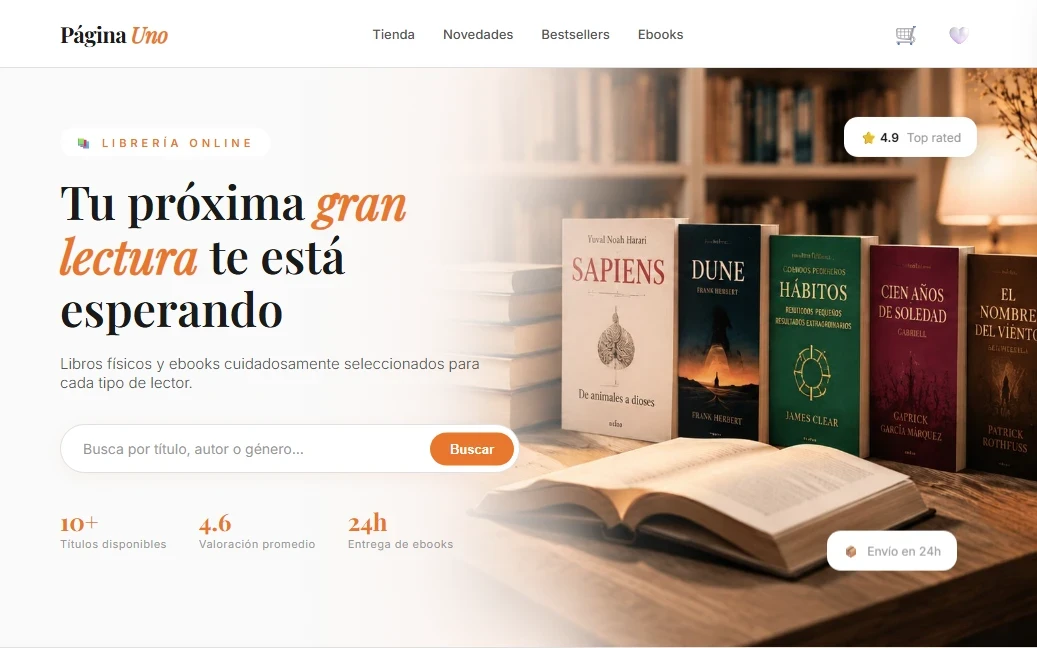
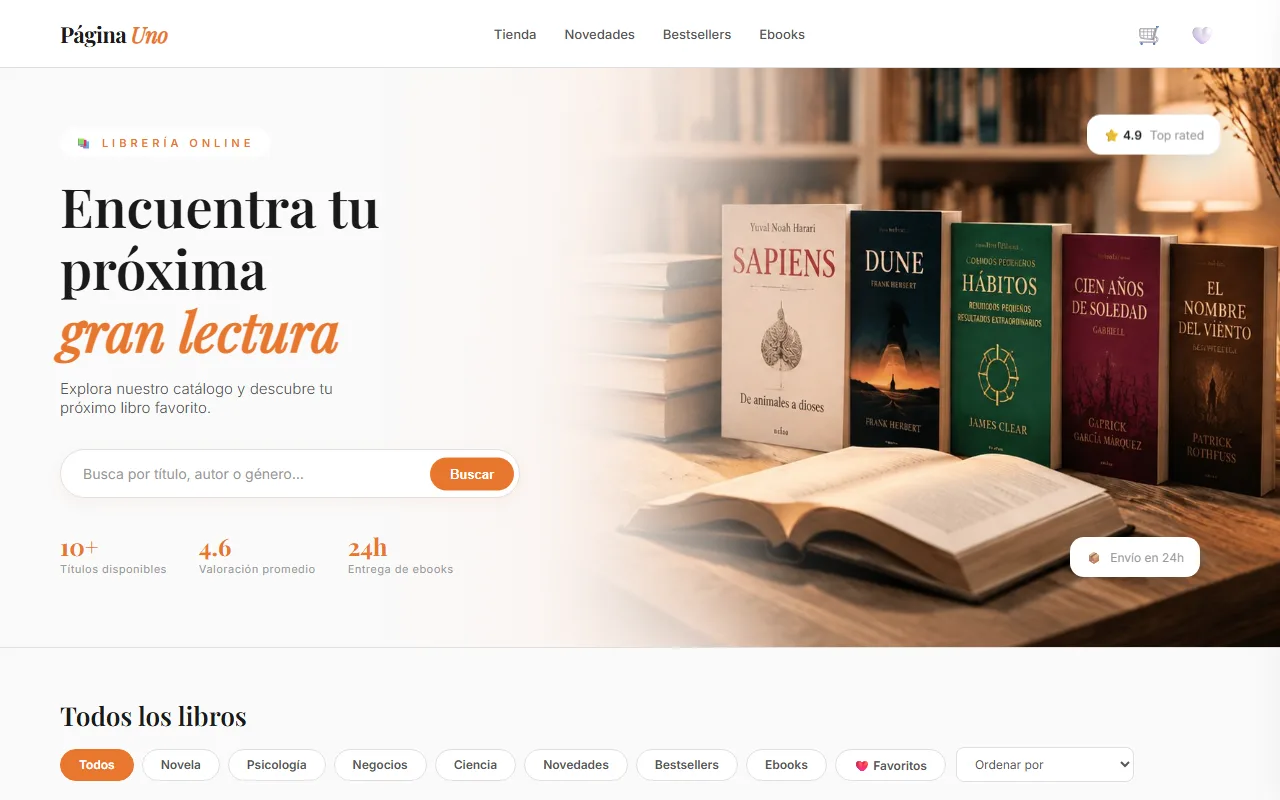
Portafolio: Libraica primero, Página Uno lejos de Libraica y tarjeta de Página Uno actualizada
- Nuevo orden de tarjetas (portafolio y carrusel del inicio).
- Captura nueva de Página Uno con su título actual y texto propio (ya no repite a Libraica), en español e inglés.
- Se agrega la traducción al inglés de la tarjeta de Merengue.

diff --git a/portafolio.html b/portafolio.html
@@ -71,40 +71,6 @@
   <section class="portfolio-grid">
     <div class="container">
       <div class="projects__grid" id="portfolio-grid">
-        <article class="projects__card" data-category="landing">
-          <span class="projects__badge"><span class="projects__badge-dot"></span><span data-i18n="projects.badge.landing">Landing Page</span></span>
-          <div class="projects__media">
-            <img src="assets/img/lash-atelier-hero.webp" alt="Captura del sitio web de Lash Atelier" class="projects__media-img">
-          </div>
-          <div class="projects__body">
-            <h3 class="projects__card-title">Lash Atelier</h3>
-            <div class="projects__card-row">
-              <p class="projects__card-text" data-i18n="projects.card.lashAtelier">Landing page moderna para negocio de pestañas y laminado de cejas.</p>
-              <a href="https://moravistudio.github.io/pesta-as/" class="projects__link" target="_blank" rel="noopener noreferrer">
-                <span data-i18n="projects.verProyecto">Ver proyecto</span>
-                <svg width="16" height="16" viewBox="0 0 24 24" fill="none" stroke="currentColor" stroke-width="2" stroke-linecap="round" stroke-linejoin="round"><line x1="5" y1="12" x2="19" y2="12"></line><polyline points="12 5 19 12 12 19"></polyline></svg>
-              </a>
-            </div>
-          </div>
-        </article>
-
-        <article class="projects__card" data-category="tienda-online">
-          <span class="projects__badge"><span class="projects__badge-dot"></span><span data-i18n="projects.badge.tienda">Tienda Online</span></span>
-          <div class="projects__media">
-            <img src="assets/img/pagina-uno-hero.webp" alt="Captura del sitio web de Página Uno" class="projects__media-img">
-          </div>
-          <div class="projects__body">
-            <h3 class="projects__card-title">Página Uno</h3>
-            <div class="projects__card-row">
-              <p class="projects__card-text" data-i18n="projects.card.paginaUno">Tienda online de libros seleccionados para cada tipo de lector.</p>
-              <a href="https://moravistudio.github.io/tiendaonlinelibros/" class="projects__link" target="_blank" rel="noopener noreferrer">
-                <span data-i18n="projects.verProyecto">Ver proyecto</span>
-                <svg width="16" height="16" viewBox="0 0 24 24" fill="none" stroke="currentColor" stroke-width="2" stroke-linecap="round" stroke-linejoin="round"><line x1="5" y1="12" x2="19" y2="12"></line><polyline points="12 5 19 12 12 19"></polyline></svg>
-              </a>
-            </div>
-          </div>
-        </article>
-
         <article class="projects__card" data-category="sitio-web">
           <span class="projects__badge"><span class="projects__badge-dot"></span><span data-i18n="projects.badge.sitio">Sitio Web</span></span>
           <div class="projects__media">
@@ -122,6 +88,23 @@
           </div>
         </article>
 
+        <article class="projects__card" data-category="tienda-online">
+          <span class="projects__badge"><span class="projects__badge-dot"></span><span data-i18n="projects.badge.tienda">Tienda Online</span></span>
+          <div class="projects__media">
+            <img loading="lazy" src="assets/img/merengue-hero.webp" alt="Captura de la tienda online de Merengue Pastelería" class="projects__media-img">
+          </div>
+          <div class="projects__body">
+            <h3 class="projects__card-title">Merengue Pastelería</h3>
+            <div class="projects__card-row">
+              <p class="projects__card-text" data-i18n="portafolio.card.merengue">Tienda online de pastelería artesanal con carrito, pedido y WhatsApp.</p>
+              <a href="https://moravistudio.github.io/Merengue/" class="projects__link" target="_blank" rel="noopener noreferrer">
+                <span data-i18n="projects.verProyecto">Ver proyecto</span>
+                <svg width="16" height="16" viewBox="0 0 24 24" fill="none" stroke="currentColor" stroke-width="2" stroke-linecap="round" stroke-linejoin="round"><line x1="5" y1="12" x2="19" y2="12"></line><polyline points="12 5 19 12 12 19"></polyline></svg>
+              </a>
+            </div>
+          </div>
+        </article>
+
         <article class="projects__card" data-category="landing">
           <span class="projects__badge"><span class="projects__badge-dot"></span><span data-i18n="projects.badge.landing">Landing Page</span></span>
           <div class="projects__media">
@@ -132,40 +115,6 @@
             <div class="projects__card-row">
               <p class="projects__card-text" data-i18n="portafolio.card.synapse">Landing page para plataforma de inteligencia artificial.</p>
               <a href="https://moravistudio.github.io/Synapse-AI/" class="projects__link" target="_blank" rel="noopener noreferrer">
-                <span data-i18n="projects.verProyecto">Ver proyecto</span>
-                <svg width="16" height="16" viewBox="0 0 24 24" fill="none" stroke="currentColor" stroke-width="2" stroke-linecap="round" stroke-linejoin="round"><line x1="5" y1="12" x2="19" y2="12"></line><polyline points="12 5 19 12 12 19"></polyline></svg>
-              </a>
-            </div>
-          </div>
-        </article>
-
-        <article class="projects__card" data-category="landing">
-          <span class="projects__badge"><span class="projects__badge-dot"></span><span data-i18n="projects.badge.landing">Landing Page</span></span>
-          <div class="projects__media">
-            <img loading="lazy" src="assets/img/landing-serum-hero.webp" alt="Captura del sitio web de Landing Serum" class="projects__media-img">
-          </div>
-          <div class="projects__body">
-            <h3 class="projects__card-title">Landing Serum</h3>
-            <div class="projects__card-row">
-              <p class="projects__card-text" data-i18n="portafolio.card.serum">Landing page de venta de sérum facial.</p>
-              <a href="https://moravistudio.github.io/Landing-serum/" class="projects__link" target="_blank" rel="noopener noreferrer">
-                <span data-i18n="projects.verProyecto">Ver proyecto</span>
-                <svg width="16" height="16" viewBox="0 0 24 24" fill="none" stroke="currentColor" stroke-width="2" stroke-linecap="round" stroke-linejoin="round"><line x1="5" y1="12" x2="19" y2="12"></line><polyline points="12 5 19 12 12 19"></polyline></svg>
-              </a>
-            </div>
-          </div>
-        </article>
-
-        <article class="projects__card" data-category="landing">
-          <span class="projects__badge"><span class="projects__badge-dot"></span><span data-i18n="projects.badge.landing">Landing Page</span></span>
-          <div class="projects__media">
-            <img loading="lazy" src="assets/img/maison-dulce-hero.webp" alt="Captura del sitio web de Maison Dulce" class="projects__media-img">
-          </div>
-          <div class="projects__body">
-            <h3 class="projects__card-title">Maison Dulce</h3>
-            <div class="projects__card-row">
-              <p class="projects__card-text" data-i18n="portafolio.card.dulce">Landing page para negocio de pastelería artesanal.</p>
-              <a href="https://moravistudio.github.io/Maison-Dulce/" class="projects__link" target="_blank" rel="noopener noreferrer">
                 <span data-i18n="projects.verProyecto">Ver proyecto</span>
                 <svg width="16" height="16" viewBox="0 0 24 24" fill="none" stroke="currentColor" stroke-width="2" stroke-linecap="round" stroke-linejoin="round"><line x1="5" y1="12" x2="19" y2="12"></line><polyline points="12 5 19 12 12 19"></polyline></svg>
               </a>
@@ -227,13 +176,64 @@
         <article class="projects__card" data-category="tienda-online">
           <span class="projects__badge"><span class="projects__badge-dot"></span><span data-i18n="projects.badge.tienda">Tienda Online</span></span>
           <div class="projects__media">
-            <img loading="lazy" src="assets/img/merengue-hero.webp" alt="Captura de la tienda online de Merengue Pastelería" class="projects__media-img">
+            <img src="assets/img/pagina-uno-hero.webp?v=2" alt="Captura del sitio web de Página Uno" class="projects__media-img">
           </div>
           <div class="projects__body">
-            <h3 class="projects__card-title">Merengue Pastelería</h3>
+            <h3 class="projects__card-title">Página Uno</h3>
             <div class="projects__card-row">
-              <p class="projects__card-text" data-i18n="portafolio.card.merengue">Tienda online de pastelería artesanal con carrito, pedido y WhatsApp.</p>
-              <a href="https://moravistudio.github.io/Merengue/" class="projects__link" target="_blank" rel="noopener noreferrer">
+              <p class="projects__card-text" data-i18n="projects.card.paginaUno">Tienda online de libros con carrito, favoritos y pago con tarjeta, PayPal o WhatsApp.</p>
+              <a href="https://moravistudio.github.io/tiendaonlinelibros/" class="projects__link" target="_blank" rel="noopener noreferrer">
+                <span data-i18n="projects.verProyecto">Ver proyecto</span>
+                <svg width="16" height="16" viewBox="0 0 24 24" fill="none" stroke="currentColor" stroke-width="2" stroke-linecap="round" stroke-linejoin="round"><line x1="5" y1="12" x2="19" y2="12"></line><polyline points="12 5 19 12 12 19"></polyline></svg>
+              </a>
+            </div>
+          </div>
+        </article>
+
+        <article class="projects__card" data-category="landing">
+          <span class="projects__badge"><span class="projects__badge-dot"></span><span data-i18n="projects.badge.landing">Landing Page</span></span>
+          <div class="projects__media">
+            <img loading="lazy" src="assets/img/landing-serum-hero.webp" alt="Captura del sitio web de Landing Serum" class="projects__media-img">
+          </div>
+          <div class="projects__body">
+            <h3 class="projects__card-title">Landing Serum</h3>
+            <div class="projects__card-row">
+              <p class="projects__card-text" data-i18n="portafolio.card.serum">Landing page de venta de sérum facial.</p>
+              <a href="https://moravistudio.github.io/Landing-serum/" class="projects__link" target="_blank" rel="noopener noreferrer">
+                <span data-i18n="projects.verProyecto">Ver proyecto</span>
+                <svg width="16" height="16" viewBox="0 0 24 24" fill="none" stroke="currentColor" stroke-width="2" stroke-linecap="round" stroke-linejoin="round"><line x1="5" y1="12" x2="19" y2="12"></line><polyline points="12 5 19 12 12 19"></polyline></svg>
+              </a>
+            </div>
+          </div>
+        </article>
+
+        <article class="projects__card" data-category="landing">
+          <span class="projects__badge"><span class="projects__badge-dot"></span><span data-i18n="projects.badge.landing">Landing Page</span></span>
+          <div class="projects__media">
+            <img src="assets/img/lash-atelier-hero.webp" alt="Captura del sitio web de Lash Atelier" class="projects__media-img">
+          </div>
+          <div class="projects__body">
+            <h3 class="projects__card-title">Lash Atelier</h3>
+            <div class="projects__card-row">
+              <p class="projects__card-text" data-i18n="projects.card.lashAtelier">Landing page moderna para negocio de pestañas y laminado de cejas.</p>
+              <a href="https://moravistudio.github.io/pesta-as/" class="projects__link" target="_blank" rel="noopener noreferrer">
+                <span data-i18n="projects.verProyecto">Ver proyecto</span>
+                <svg width="16" height="16" viewBox="0 0 24 24" fill="none" stroke="currentColor" stroke-width="2" stroke-linecap="round" stroke-linejoin="round"><line x1="5" y1="12" x2="19" y2="12"></line><polyline points="12 5 19 12 12 19"></polyline></svg>
+              </a>
+            </div>
+          </div>
+        </article>
+
+        <article class="projects__card" data-category="landing">
+          <span class="projects__badge"><span class="projects__badge-dot"></span><span data-i18n="projects.badge.landing">Landing Page</span></span>
+          <div class="projects__media">
+            <img loading="lazy" src="assets/img/maison-dulce-hero.webp" alt="Captura del sitio web de Maison Dulce" class="projects__media-img">
+          </div>
+          <div class="projects__body">
+            <h3 class="projects__card-title">Maison Dulce</h3>
+            <div class="projects__card-row">
+              <p class="projects__card-text" data-i18n="portafolio.card.dulce">Landing page para negocio de pastelería artesanal.</p>
+              <a href="https://moravistudio.github.io/Maison-Dulce/" class="projects__link" target="_blank" rel="noopener noreferrer">
                 <span data-i18n="projects.verProyecto">Ver proyecto</span>
                 <svg width="16" height="16" viewBox="0 0 24 24" fill="none" stroke="currentColor" stroke-width="2" stroke-linecap="round" stroke-linejoin="round"><line x1="5" y1="12" x2="19" y2="12"></line><polyline points="12 5 19 12 12 19"></polyline></svg>
               </a>
@@ -306,7 +306,7 @@
     </div>
   </footer>
 
-  <script src="js/i18n.js?v=3" defer></script>
+  <script src="js/i18n.js?v=4" defer></script>
   <script src="js/portafolio.js" defer></script>
   <script src="js/menu-mobile.js" defer></script>
 

diff --git a/index.html b/index.html
@@ -293,15 +293,15 @@
 
       <div class="projects-ring" id="proyectos-anillo" aria-label="Proyectos destacados">
         <div class="projects-ring__spin">
-          <a class="projects-ring__item" href="portafolio.html" draggable="false"><img src="assets/img/lash-atelier-hero.webp" alt="Captura del sitio web de Lash Atelier" width="1082" height="676" loading="lazy" draggable="false"></a>
-          <a class="projects-ring__item" href="portafolio.html" draggable="false"><img src="assets/img/pagina-uno-hero.webp" alt="Captura del sitio web de Página Uno" width="1037" height="648" loading="lazy" draggable="false"></a>
           <a class="projects-ring__item" href="portafolio.html" draggable="false"><img src="assets/img/libraica-hero.webp" alt="Captura del sitio web de Libraica" width="1066" height="666" loading="lazy" draggable="false"></a>
           <a class="projects-ring__item" href="portafolio.html" draggable="false"><img src="assets/img/synapse-ai-hero.webp" alt="Captura del sitio web de Synapse AI" width="1280" height="800" loading="lazy" draggable="false"></a>
-          <a class="projects-ring__item" href="portafolio.html" draggable="false"><img src="assets/img/landing-serum-hero.webp" alt="Captura del sitio web de Landing Serum" width="1280" height="800" loading="lazy" draggable="false"></a>
-          <a class="projects-ring__item" href="portafolio.html" draggable="false"><img src="assets/img/maison-dulce-hero.webp" alt="Captura del sitio web de Maison Dulce" width="1280" height="800" loading="lazy" draggable="false"></a>
           <a class="projects-ring__item" href="portafolio.html" draggable="false"><img src="assets/img/maison-veda-hero.webp" alt="Captura del sitio web de MAISON VEDA" width="1280" height="800" loading="lazy" draggable="false"></a>
           <a class="projects-ring__item" href="portafolio.html" draggable="false"><img src="assets/img/lumen-studio-hero.webp" alt="Captura del sitio web de Lumen Studio" width="1280" height="800" loading="lazy" draggable="false"></a>
           <a class="projects-ring__item" href="portafolio.html" draggable="false"><img src="assets/img/chispita-clean-hero.webp?v=2" alt="Captura del sitio web de Chispita Clean Lavandería" width="1280" height="800" loading="lazy" draggable="false"></a>
+          <a class="projects-ring__item" href="portafolio.html" draggable="false"><img src="assets/img/pagina-uno-hero.webp?v=2" alt="Captura del sitio web de Página Uno" width="1037" height="648" loading="lazy" draggable="false"></a>
+          <a class="projects-ring__item" href="portafolio.html" draggable="false"><img src="assets/img/landing-serum-hero.webp" alt="Captura del sitio web de Landing Serum" width="1280" height="800" loading="lazy" draggable="false"></a>
+          <a class="projects-ring__item" href="portafolio.html" draggable="false"><img src="assets/img/lash-atelier-hero.webp" alt="Captura del sitio web de Lash Atelier" width="1082" height="676" loading="lazy" draggable="false"></a>
+          <a class="projects-ring__item" href="portafolio.html" draggable="false"><img src="assets/img/maison-dulce-hero.webp" alt="Captura del sitio web de Maison Dulce" width="1280" height="800" loading="lazy" draggable="false"></a>
         </div>
       </div>
 

diff --git a/js/i18n.js b/js/i18n.js
@@ -75,7 +75,7 @@
         },
         card: {
           lashAtelier: 'Landing page moderna para negocio de pestañas y laminado de cejas.',
-          paginaUno: 'Tienda online de libros seleccionados para cada tipo de lector.',
+          paginaUno: 'Tienda online de libros con carrito, favoritos y pago con tarjeta, PayPal o WhatsApp.',
           libraica: 'Sitio web de libros con recomendaciones literarias'
         },
         verProyecto: 'Ver proyecto',
@@ -90,7 +90,8 @@
           dulce: 'Landing page para negocio de pastelería artesanal.',
           veda: 'Tienda online de venta de ropa.',
           lumen: 'Studio de Fotografía Profesional.',
-          chispita: 'Landing page para lavandería con recojo y entrega a domicilio.'
+          chispita: 'Landing page para lavandería con recojo y entrega a domicilio.',
+          merengue: 'Tienda online de pastelería artesanal con carrito, pedido y WhatsApp.'
         }
       },
       services: {
@@ -261,7 +262,7 @@
         },
         card: {
           lashAtelier: 'Modern landing page for a lash and brow lamination business.',
-          paginaUno: 'Online bookstore with curated titles for every type of reader.',
+          paginaUno: 'Online bookstore with cart, favorites and payment by card, PayPal or WhatsApp.',
           libraica: 'Book website with literary recommendations'
         },
         verProyecto: 'View project',
@@ -276,7 +277,8 @@
           dulce: 'Landing page for an artisan bakery business.',
           veda: 'Online clothing store.',
           lumen: 'Professional photography studio.',
-          chispita: 'Landing page for a laundry service with home pickup and delivery.'
+          chispita: 'Landing page for a laundry service with home pickup and delivery.',
+          merengue: 'Online store for an artisan bakery with cart, ordering and WhatsApp.'
         }
       },
       services: {
